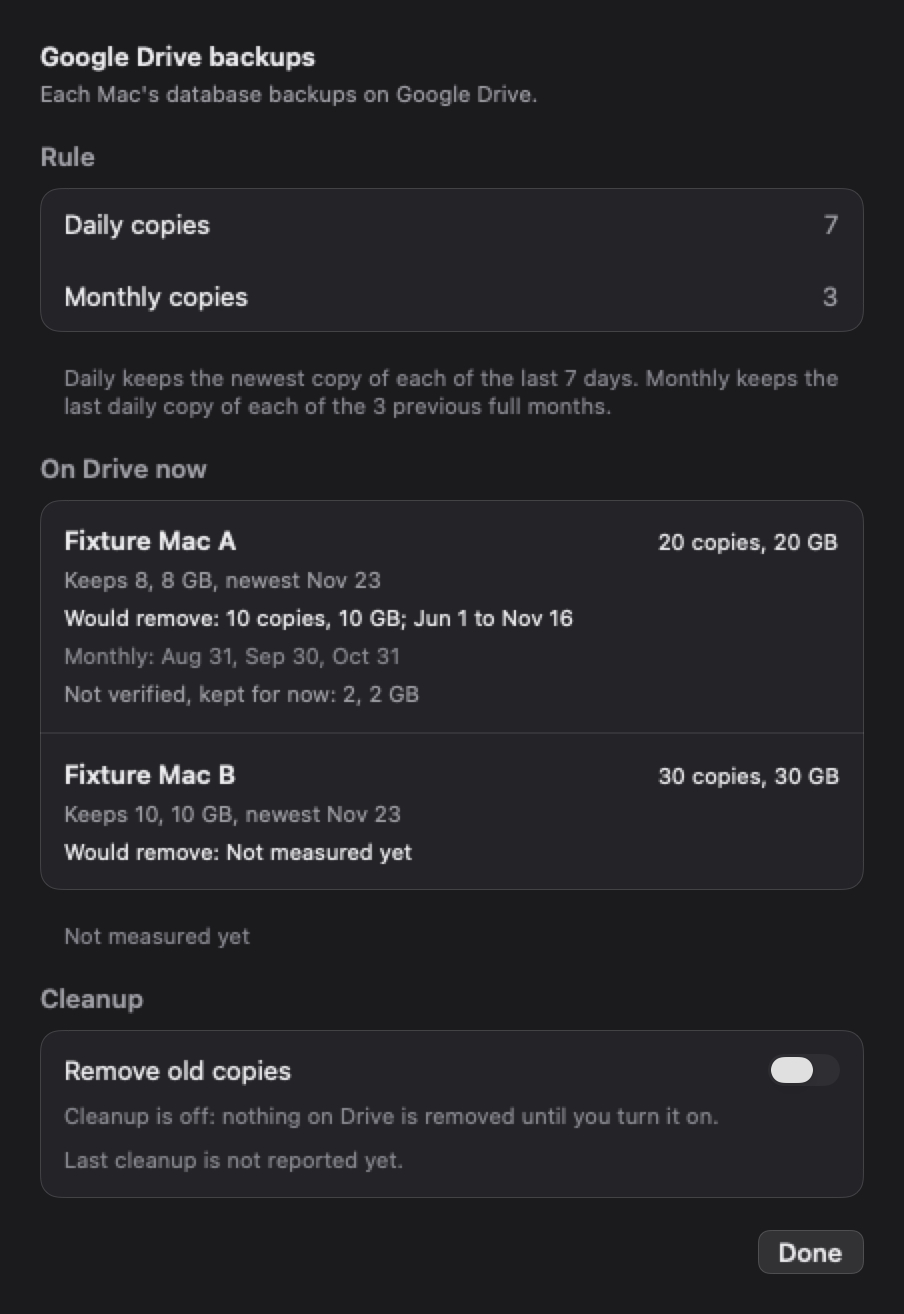
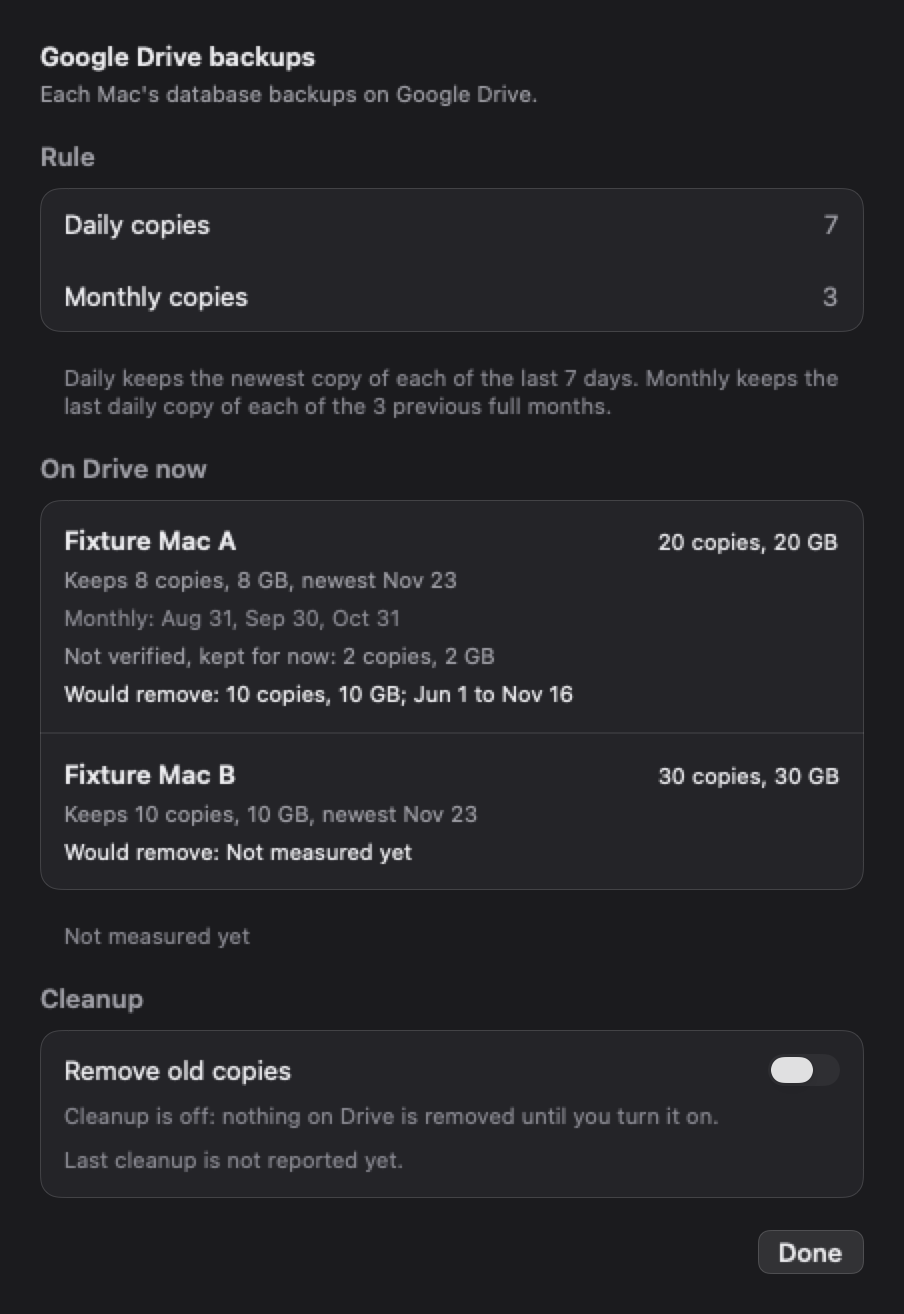
docs: Drive retention proof for 6eecfda98 (kept lines first, pinned line)

Changed region(s): [[0.0619, 0.4368, 0.6504, 0.5616], [0.1858, 0.5928, 0.5265, 0.624]]

diff --git a/proof/drive-retention/README.md b/proof/drive-retention/README.md
@@ -45,3 +45,7 @@ The first five round-2 regressions failed on 696316c1: 14 assertions, including 
 - [before-classic-settings-missing-dark.png](before-classic-settings-missing-dark.png)
 - [before-new-settings-missing-dark.png](before-new-settings-missing-dark.png)
 - [before-new-settings-missing-light.png](before-new-settings-missing-light.png)
+
+## Lead follow-up at 6eecfda98
+
+After source for every after-sheet-* picture: 6eecfda98 (round-2 review items R2-1, R2-2, R2-4 and the producer's pinned cohort). `after-sheet-measured-dark/light` re-rendered: kept lines first (Keeps, Monthly, Not verified), Would remove last, every count reads "N copies". `after-sheet-pinned-dark` is new: Mac A keeps 7 by rule, 2 not verified, 1 pinned, would remove 10 (7+2+1+10 = 20, the header). The other sheet pictures were re-rendered from the same head; the Settings and confirmation pictures are unchanged from 44f69350 (this change touches only the sheet). Cropped to the drawn bounds like the rest.
